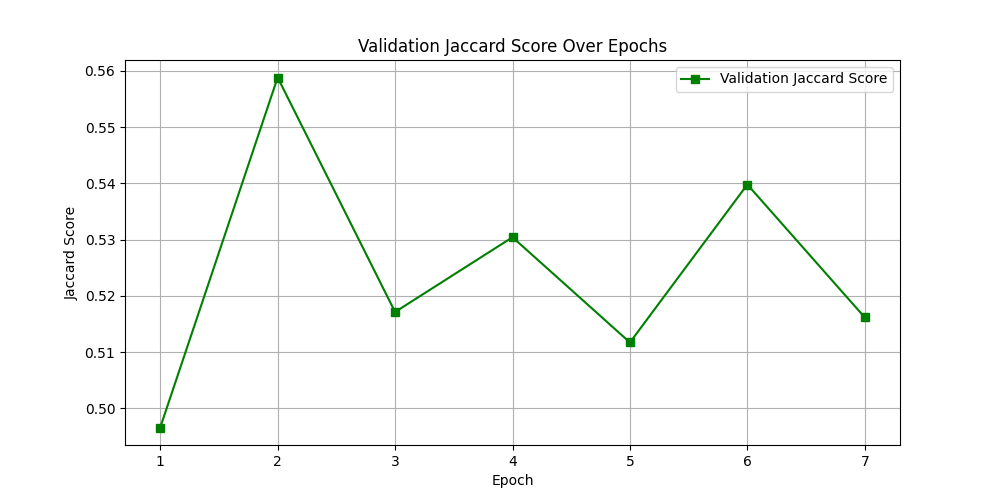
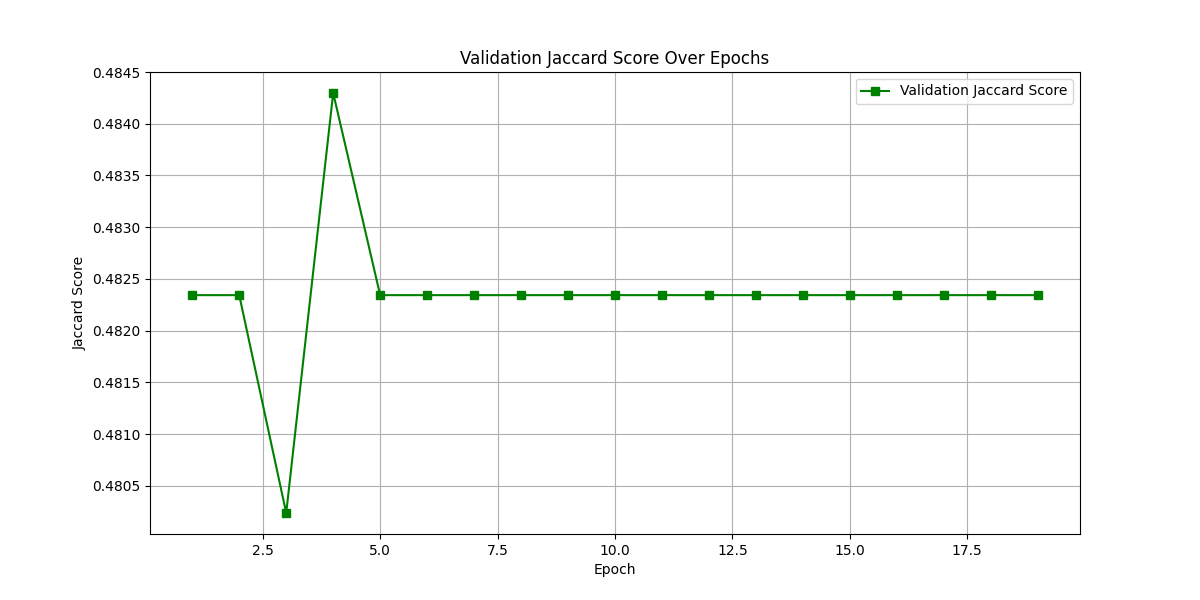
another cnn made and tinkered with the resnet no full training done

diff --git a/code/main_code/EfficientNet_cnn.py b/code/main_code/EfficientNet_cnn.py
@@ -11,26 +11,68 @@ import copy
 from sklearn.metrics import classification_report, confusion_matrix, jaccard_score
 import matplotlib.pyplot as plt
 import datetime
-from tqdm import tqdm  # Progress bar
+from tqdm import tqdm  # For progress bars
 
-# Define data directories
+# --------------------------
+# User-Modifiable Parameters
+# --------------------------
+
+# Data directories
 data_dir = '/root/.ipython/WegnerThesis/animals_with_attributes/animals_w_att_data'
 train_dir = os.path.join(data_dir, 'train')
 val_dir = os.path.join(data_dir, 'validate')
 test_dir = os.path.join(data_dir, 'test')
 
+# Model configuration
+model_name = 'efficientnet_b0'  # Options: 'efficientnet_b0' to 'efficientnet_b7'
+num_epochs = 10                 # Adjust as needed
+batch_size = 16                 # Adjust based on your GPU memory
+learning_rate = 0.01
+momentum = 0.9
+num_workers = 4                 # Number of worker processes for data loading
+iteration = 1                   # For naming outputs
+
+# Output directory for saving predictions and reports
+output_dir = '/root/.ipython/WegnerThesis/charts_figures_etc'
+if not os.path.exists(output_dir):
+    os.makedirs(output_dir)
+
+# Input size for different EfficientNet models
+input_sizes = {
+    'efficientnet_b0': 224,
+    'efficientnet_b1': 240,
+    'efficientnet_b2': 260,
+    'efficientnet_b3': 300,
+    'efficientnet_b4': 380,
+    'efficientnet_b5': 456,
+    'efficientnet_b6': 528,
+    'efficientnet_b7': 600,
+}
+
+# Set the input size based on the model
+input_size = input_sizes[model_name]
+
+# Device configuration
+device = torch.device('cuda:0' if torch.cuda.is_available() else 'cpu')
+
+# --------------------------
+#       End of User Settings
+# --------------------------
+
 # Data transformations (no augmentation for initial runs)
 data_transforms = {
     'train': transforms.Compose([
-        transforms.Resize((224, 224)),
+        transforms.Resize((input_size, input_size)),
         transforms.ToTensor(),
         # Normalization values are standard for ImageNet
-        transforms.Normalize([0.485, 0.456, 0.406], [0.229, 0.224, 0.225])
+        transforms.Normalize([0.485, 0.456, 0.406],
+                             [0.229, 0.224, 0.225])
     ]),
     'validate': transforms.Compose([
-        transforms.Resize((224, 224)),
+        transforms.Resize((input_size, input_size)),
         transforms.ToTensor(),
-        transforms.Normalize([0.485, 0.456, 0.406], [0.229, 0.224, 0.225])
+        transforms.Normalize([0.485, 0.456, 0.406],
+                             [0.229, 0.224, 0.225])
     ]),
 }
 
@@ -44,31 +86,48 @@ image_datasets = {
 train_targets = [label for _, label in image_datasets['train'].imgs]
 class_counts = np.bincount(train_targets)
 class_weights = 1. / class_counts
-class_weights = torch.FloatTensor(class_weights)
+class_weights = torch.FloatTensor(class_weights).to(device)
 
 # Data loaders
-batch_size = 16
-
 dataloaders = {
-    'train': DataLoader(image_datasets['train'], batch_size=batch_size, shuffle=True, num_workers=1),
-    'validate': DataLoader(image_datasets['validate'], batch_size=batch_size, shuffle=False, num_workers=1),
+    'train': DataLoader(image_datasets['train'], batch_size=batch_size,
+                        shuffle=True, num_workers=num_workers),
+    'validate': DataLoader(image_datasets['validate'], batch_size=batch_size,
+                           shuffle=False, num_workers=num_workers),
 }
 
 dataset_sizes = {x: len(image_datasets[x]) for x in ['train', 'validate']}
 class_names = image_datasets['train'].classes
 
-# Device configuration
-device = torch.device('cuda:0' if torch.cuda.is_available() else 'cpu')
+# Load the EfficientNet model
+from torchvision.models import (efficientnet_b0, efficientnet_b1, efficientnet_b2,
+                                efficientnet_b3, efficientnet_b4, efficientnet_b5,
+                                efficientnet_b6, efficientnet_b7)
 
-# Load ResNet50 model without pre-trained weights
-from torchvision.models import resnet50
-
-model = resnet50(weights=None)
+model = None
+if model_name == 'efficientnet_b0':
+    model = efficientnet_b0(weights=None)
+elif model_name == 'efficientnet_b1':
+    model = efficientnet_b1(weights=None)
+elif model_name == 'efficientnet_b2':
+    model = efficientnet_b2(weights=None)
+elif model_name == 'efficientnet_b3':
+    model = efficientnet_b3(weights=None)
+elif model_name == 'efficientnet_b4':
+    model = efficientnet_b4(weights=None)
+elif model_name == 'efficientnet_b5':
+    model = efficientnet_b5(weights=None)
+elif model_name == 'efficientnet_b6':
+    model = efficientnet_b6(weights=None)
+elif model_name == 'efficientnet_b7':
+    model = efficientnet_b7(weights=None)
+else:
+    raise ValueError("Invalid model name. Choose from 'efficientnet_b0' to 'efficientnet_b7'.")
 
 # Modify the final layer to match the number of classes
-num_ftrs = model.fc.in_features
+num_ftrs = model.classifier[1].in_features  # Assuming classifier is [Dropout, Linear]
 num_classes = len(class_names)
-model.fc = nn.Linear(num_ftrs, num_classes)
+model.classifier[1] = nn.Linear(num_ftrs, num_classes)
 model = model.to(device)
 
 # Define soft Jaccard loss function
@@ -93,7 +152,7 @@ class SoftJaccardLoss(nn.Module):
 criterion = SoftJaccardLoss()
 
 # Define optimizer
-optimizer = optim.SGD(model.parameters(), lr=0.01, momentum=0.9)
+optimizer = optim.SGD(model.parameters(), lr=learning_rate, momentum=momentum)
 
 # Define learning rate scheduler
 scheduler = optim.lr_scheduler.ReduceLROnPlateau(optimizer, mode='min', patience=3, verbose=True)
@@ -137,13 +196,8 @@ class EarlyStopping:
 # Instantiate early stopping
 early_stopping = EarlyStopping(patience=5, verbose=True)
 
-# Output directory for saving predictions and reports
-output_dir = '/root/.ipython/WegnerThesis/charts_figures_etc'
-if not os.path.exists(output_dir):
-    os.makedirs(output_dir)
-
 # Training function
-def train_model(model, criterion, optimizer, scheduler, num_epochs=1):
+def train_model(model, criterion, optimizer, scheduler, num_epochs=num_epochs):
     since = time.time()
 
     best_model_wts = copy.deepcopy(model.state_dict())
@@ -165,7 +219,8 @@ def train_model(model, criterion, optimizer, scheduler, num_epochs=1):
             running_loss = 0.0
             running_corrects = 0
 
-            progress_bar = tqdm(enumerate(dataloaders[phase]), desc=f"{phase.capitalize()} Epoch {epoch+1}", total=len(dataloaders[phase]), unit='batch')
+            progress_bar = tqdm(enumerate(dataloaders[phase]), desc=f"{phase.capitalize()} Epoch {epoch+1}",
+                                total=len(dataloaders[phase]), unit='batch')
 
             # Iterate over data
             for batch_idx, (inputs, labels) in progress_bar:
@@ -242,13 +297,13 @@ def save_predictions(predictions, labels, iteration):
     # Create a DataFrame
     df = pd.DataFrame({'Predicted': predictions, 'Actual': labels})
 
-    # Map class indices to class_names
+    # Map class indices to class names
     df['Predicted_Class'] = df['Predicted'].apply(lambda x: class_names[x])
     df['Actual_Class'] = df['Actual'].apply(lambda x: class_names[x])
 
     # Generate timestamp for filename
     timestamp = datetime.datetime.now().strftime('%Y%m%d_%H%M%S')
-    filename = f'predictions_iteration{iteration}_{timestamp}.csv'
+    filename = f'predictions_{model_name}_iteration{iteration}_{timestamp}.csv'
 
     # Save to specified directory
     output_path = os.path.join(output_dir, filename)
@@ -259,14 +314,14 @@ def save_predictions(predictions, labels, iteration):
     # Generate classification report
     report = classification_report(labels, predictions, target_names=class_names, output_dict=True)
     report_df = pd.DataFrame(report).transpose()
-    report_filename = f'classification_report_iteration{iteration}_{timestamp}.csv'
+    report_filename = f'classification_report_{model_name}_iteration{iteration}_{timestamp}.csv'
     report_output_path = os.path.join(output_dir, report_filename)
     report_df.to_csv(report_output_path)
     print(f'Classification report saved to {report_output_path}')
 
     # Generate confusion matrix
     cm = confusion_matrix(labels, predictions)
-    cm_filename = f'confusion_matrix_iteration{iteration}_{timestamp}.png'
+    cm_filename = f'confusion_matrix_{model_name}_iteration{iteration}_{timestamp}.png'
     cm_output_path = os.path.join(output_dir, cm_filename)
     plot_confusion_matrix(cm, class_names, cm_output_path)
     print(f'Confusion matrix saved to {cm_output_path}')
@@ -294,9 +349,6 @@ def plot_confusion_matrix(cm, class_names, output_path):
     plt.savefig(output_path)
     plt.close()
 
-# Define iteration number
-iteration = 1  # Update this accordingly for each run
-
 # Train the model
-num_epochs = 1  # Change this manually for longer runs
-model = train_model(model, criterion, optimizer, scheduler, num_epochs=num_epochs)
+if __name__ == '__main__':
+    model = train_model(model, criterion, optimizer, scheduler, num_epochs=num_epochs)

diff --git a/pre_reqs.py b/pre_reqs.py
@@ -4,6 +4,9 @@
 import os
 from pathlib import Path
 import sys
+import pandas as pd
+import numpy as np
+from PIL import Image
 
 def main():
     # ----------------------------
@@ -22,6 +25,9 @@ def main():
     train_classes_txt = os.path.join(dataset_dir, 'trainclasses.txt')
     val_classes_txt = os.path.join(dataset_dir, 'valclasses.txt')
     test_classes_txt = os.path.join(dataset_dir, 'testclasses.txt')
+    
+    # CSV file with attributes
+    csv_path = os.path.join(dataset_dir, 'predicate_matrix_with_labels.csv')
     
     # Expected Classes
     expected_classes = {
@@ -233,6 +239,106 @@ def main():
     
     # Verify 'test' directory
     verify_split_dir(test_dir, test_classes, 'Test')
+    
+    # ----------------------------
+    # Check Data Loading and Label Alignment
+    # ----------------------------
+    print("\n--- Verifying Data Loading and Label Alignment ---")
+    
+    # Load the predicate matrix with labels
+    try:
+        df_attributes = pd.read_csv(csv_path)
+        print(f"Loaded attribute CSV with shape: {df_attributes.shape}")
+    except Exception as e:
+        print(f"ERROR: Unable to load attributes CSV: {e}")
+        errors_found = True
+        sys.exit(1)
+    
+    # Create a mapping from class name to attributes
+    class_to_attributes = {}
+    for _, row in df_attributes.iterrows():
+        class_name = row['class'].strip()
+        attributes = row.drop('class').values.astype(int)
+        class_to_attributes[class_name] = attributes
+    
+    # Verify that all classes in splits have corresponding attributes
+    for split_classes, split_name in zip([train_classes, val_classes, test_classes], ['Train', 'Validate', 'Test']):
+        missing_attributes = [cls for cls in split_classes if cls not in class_to_attributes]
+        if missing_attributes:
+            print(f"ERROR: The following classes in {split_name} split do not have attributes in CSV: {missing_attributes}")
+            errors_found = True
+        else:
+            print(f"PASS: All classes in {split_name} split have corresponding attributes")
+    
+    # Now let's sample some images and verify their labels
+    def verify_data_loading(split_dir, split_classes, split_name):
+        nonlocal errors_found
+        print(f"\nSampling data from {split_name} split for verification:")
+        num_samples = 5  # Number of samples per class to verify
+        for cls in split_classes:
+            cls_dir = Path(split_dir) / cls
+            if not cls_dir.exists():
+                continue
+            image_files = [f for f in cls_dir.iterdir() if f.is_file() and f.suffix.lower() in ['.png', '.jpg', '.jpeg', '.bmp', '.gif']]
+            if not image_files:
+                continue
+            samples = image_files[:num_samples]
+            for img_file in samples:
+                img_path = str(img_file)
+                try:
+                    image = Image.open(img_path).convert('RGB')
+                    image.verify()  # Verify that it is a valid image
+                    # Get the attributes for this class
+                    attributes = class_to_attributes.get(cls, None)
+                    if attributes is None:
+                        print(f"ERROR: No attributes found for class {cls}")
+                        errors_found = True
+                    else:
+                        print(f"PASS: Image {img_path} loaded successfully. Class: {cls}, Attributes: {attributes}")
+                except Exception as e:
+                    print(f"ERROR: Failed to load image {img_path}: {e}")
+                    errors_found = True
+    
+    # Verify data loading for each split
+    verify_data_loading(train_dir, train_classes, 'Train')
+    verify_data_loading(val_dir, val_classes, 'Validate')
+    verify_data_loading(test_dir, test_classes, 'Test')
+    
+    # ----------------------------
+    # Check for Class Imbalance
+    # ----------------------------
+    print("\n--- Checking for Class Imbalance ---")
+    
+    # Collect attribute counts in training data
+    attribute_counts = np.zeros(85)  # Assuming 85 attributes
+    total_images = 0
+    for cls in train_classes:
+        attributes = class_to_attributes.get(cls)
+        if attributes is None:
+            continue
+        cls_dir = Path(train_dir) / cls
+        if not cls_dir.exists():
+            continue
+        num_images = len([f for f in cls_dir.iterdir() if f.is_file() and f.suffix.lower() in ['.png', '.jpg', '.jpeg', '.bmp', '.gif']])
+        attribute_counts += attributes * num_images
+        total_images += num_images
+    
+    # Print attribute distribution
+    if total_images == 0:
+        print("ERROR: No images found in training data to compute attribute distribution.")
+        errors_found = True
+    else:
+        attribute_distribution = attribute_counts / total_images
+        print("Attribute distribution in training data:")
+        for idx, freq in enumerate(attribute_distribution):
+            print(f"Attribute {idx+1}: {freq:.4f}")
+    
+    # Optionally, you can check for extremely rare or never occurring attributes
+    rare_attributes = np.where(attribute_counts < 10)[0]
+    if len(rare_attributes) > 0:
+        print(f"WARNING: The following attributes are rare (less than 10 occurrences): {rare_attributes + 1}")
+    else:
+        print("PASS: No extremely rare attributes found in training data.")
     
     # ----------------------------
     # Final Summary
